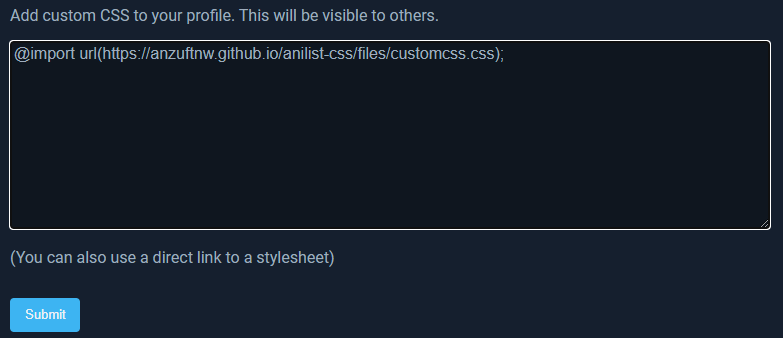
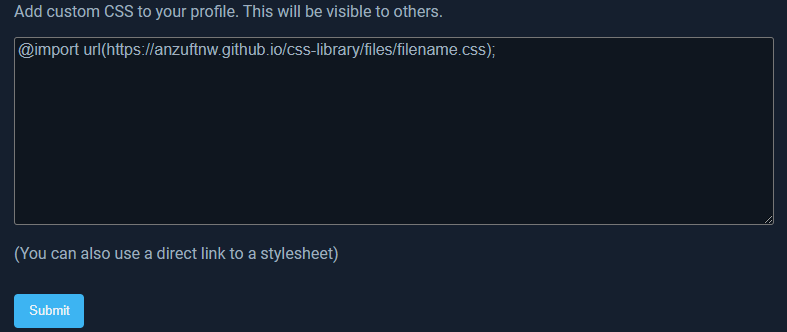
update

diff --git a/css-library/html/simple-bg.html b/css-library/html/simple-bg.html
@@ -4,7 +4,7 @@
     <meta charset="UTF-8" />
     <meta http-equiv="X-UA-Compatible" content="IE=edge" />
     <meta name="viewport" content="width=device-width, initial-scale=1.0" />
-    <title>Anzu's Library - shadowless.css</title>
+    <title>Anzu's Library - simple-bg.css</title>
     <link rel="stylesheet" href="../src/github-markdown.css" />
     <link rel="stylesheet" href="../src/style.css" />
     <link rel="stylesheet" href="../src/images-compare.css" />
@@ -15,44 +15,35 @@
       <!-- Title -->
       <h1>
         <code>V1.0</code>
-        <a href="../files/shadowless.css">shadowless.css</a>
+        <a href="../files/simple-bg.css">simple-bg.css</a>
       </h1>
       <!-- Description -->
       <h2>Description</h2>
       <p>
-        This mini CSS snippet will remove any type of shadows/depth.<br />
-        Removes the banner shadow just like
-        <a href="https://github.com/hohMiyazawa/Automail">Automail</a> does and
-        is indented to be an addition to my
-        <a href="../html/dehohification.html"
-          ><code>dehohification.css</code> snippet</a
-        >.<br />
-        (But can also be used on its own, since it removes other types of
-        shadows aswell.)
+        This CSS snippet will allow you to customize your background.<br />
+        This will automatically apply
+        <a href="../html/bg-fix.html"><code>bg-fix.css</code></a
+        >.
       </p>
       <!-- Feature List -->
       <h2>Features</h2>
       <ul>
-        <li>Removes banner shadow</li>
-        <li>Removes name shadow</li>
-        <li>Removes dropdown shadow</li>
+        <li>Adds the ability to customize your background</li>
       </ul>
       <!-- Screenshots & Comparsion -->
       <h2>Sceenshots</h2>
-      <p>
-        <code>Screenshot</code> - Banner shadow, name shadow, dropdown shadow
-      </p>
+      <p><code>Screenshot</code> - Background</p>
       <!-- Main div container -->
       <div id="myImageCompare" class="comparsion">
         <!-- The first div will be the front element, to prevent FOUC add a style="display: none;" -->
         <div style="display: none">
           <span class="images-compare-label">Before</span>
-          <img src="../src/img/shadowless-before.png" alt="Before" />
+          <img src="../src/img/simple-bg-before.png" alt="Before" />
         </div>
         <!-- This div will be the back element -->
         <div>
           <span class="images-compare-label">After</span>
-          <img src="../src/img/shadowless-after.png" alt="After" />
+          <img src="../src/img/simple-bg-after.png" alt="After" />
         </div>
       </div>
       <!-- Installation Guide -->
@@ -62,9 +53,9 @@
         Add
         <code
           >@import
-          url("https://anzuftnw.github.io/css-library/files/shadowless.css")</code
+          url("https://anzuftnw.github.io/css-library/files/simple-bg.css")</code
         >
-        into the custom css box inside your app settings and press submit.
+        into the custom css box inside your app setting.
       </p>
       <center>
         <img
@@ -74,12 +65,44 @@
           alt="tutorial image"
         />
       </center>
+      <p>
+        Then add the following code below it, change the options to your liking
+        and press submit:
+      </p>
+      <p>
+        Some
+        <a
+          href="https://developer.mozilla.org/en-US/docs/Web/CSS/background"
+          target="_blank"
+          >Help</a
+        >
+        if needed.
+      </p>
+      <pre><code
+        >/* settings */
+:root {
+  /* simple-bg settings */
+  --bg-img: url("imglink");
+  --bg-scr: fixed;
+  --bg-pos: center;
+  --bg-rpt: no-repeat;
+  --bg-sze: cover;
+}</code
+      ></pre>
+      <center>
+        <img
+          class="tutorial"
+          width="720px"
+          src="../src/img/tutorial-2.png"
+          alt="tutorial image"
+        />
+      </center>
       <h3>Customize</h3>
       <p>
         If you want more freedom and disable or modify some of the things this
         snippet does you probably already know how to do so. Copy the contents
         of
-        <code><a href="../files/shadowless.css">shadowless.css</a></code>
+        <code><a href="../files/simple-bg.css">simple-bg.css</a></code>
         into your custom css box or a seperat file and get started.
       </p>
       <!-- Changelog -->

diff --git a/css-library/files/simple-bg.css b/css-library/files/simple-bg.css
@@ -1,0 +1,25 @@
+/*
+  simple-bg.css - version 1.0
+    by https://github.com/AnzuFTNW
+*/
+
+/* snippets */
+@import url(https://anzuftnw.github.io/css-library/files/bg-fix.css);
+
+/* settings */
+:root {
+  --bg-img: url("https://i.imgur.com/lUkm9Ze.jpeg");
+  --bg-scr: fixed;
+  --bg-pos: center;
+  --bg-rpt: no-repeat;
+  --bg-sze: cover;
+}
+
+/* add bg */
+.page-content > .user {
+  background-attachment: var(--bg-scr) !important;
+  background-image: var(--bg-img) !important;
+  background-position: var(--bg-pos) !important;
+  background-repeat: var(--bg-rpt) !important;
+  background-size: var(--bg-sze) !important;
+}

diff --git a/css-library/html/dehohification.html b/css-library/html/dehohification.html
@@ -107,7 +107,7 @@
         Add
         <code
           >@import
-          url("https://anzuftnw.github.io/anilist-css/files/dehohification.css")</code
+          url("https://anzuftnw.github.io/acss-library/files/dehohification.css")</code
         >
         into the custom css box inside your app settings and press submit.
       </p>

diff --git a/css-library/html/bg-fix.html b/css-library/html/bg-fix.html
@@ -57,7 +57,7 @@
         Add
         <code
           >@import
-          url("https://anzuftnw.github.io/anilist-css/files/bg-fix.css")</code
+          url("https://anzuftnw.github.io/css-library/files/bg-fix.css")</code
         >
         into the custom css box inside your app settings and press submit.
       </p>
